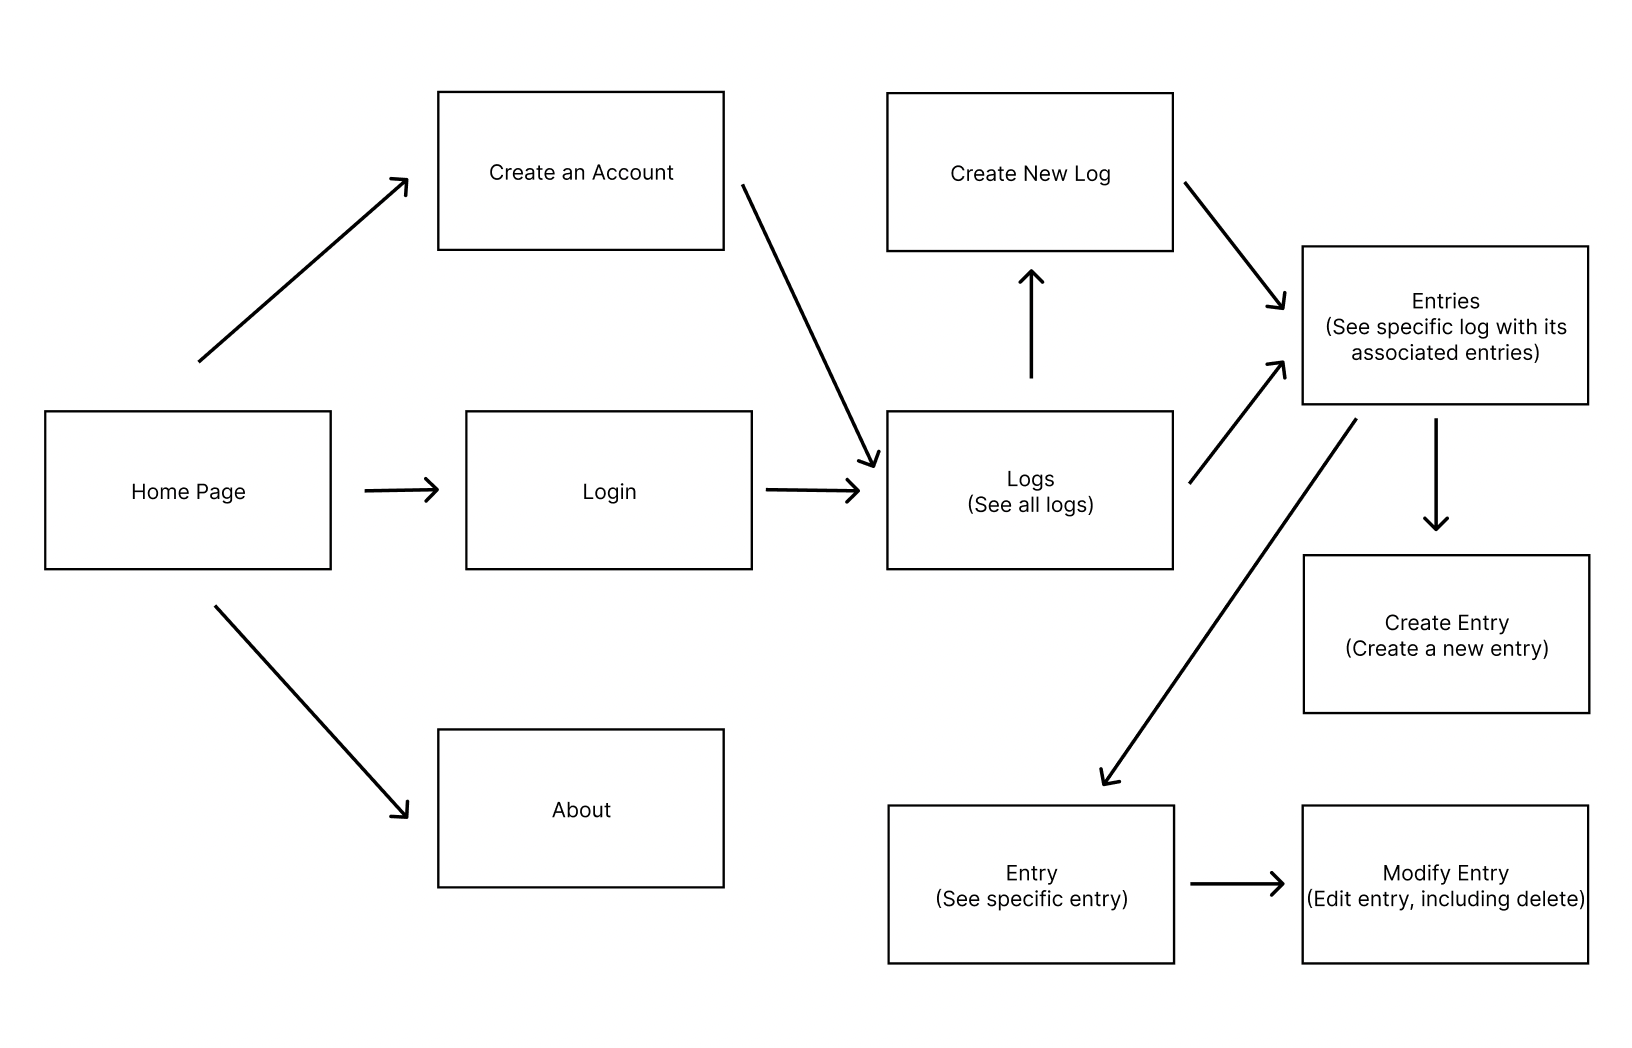
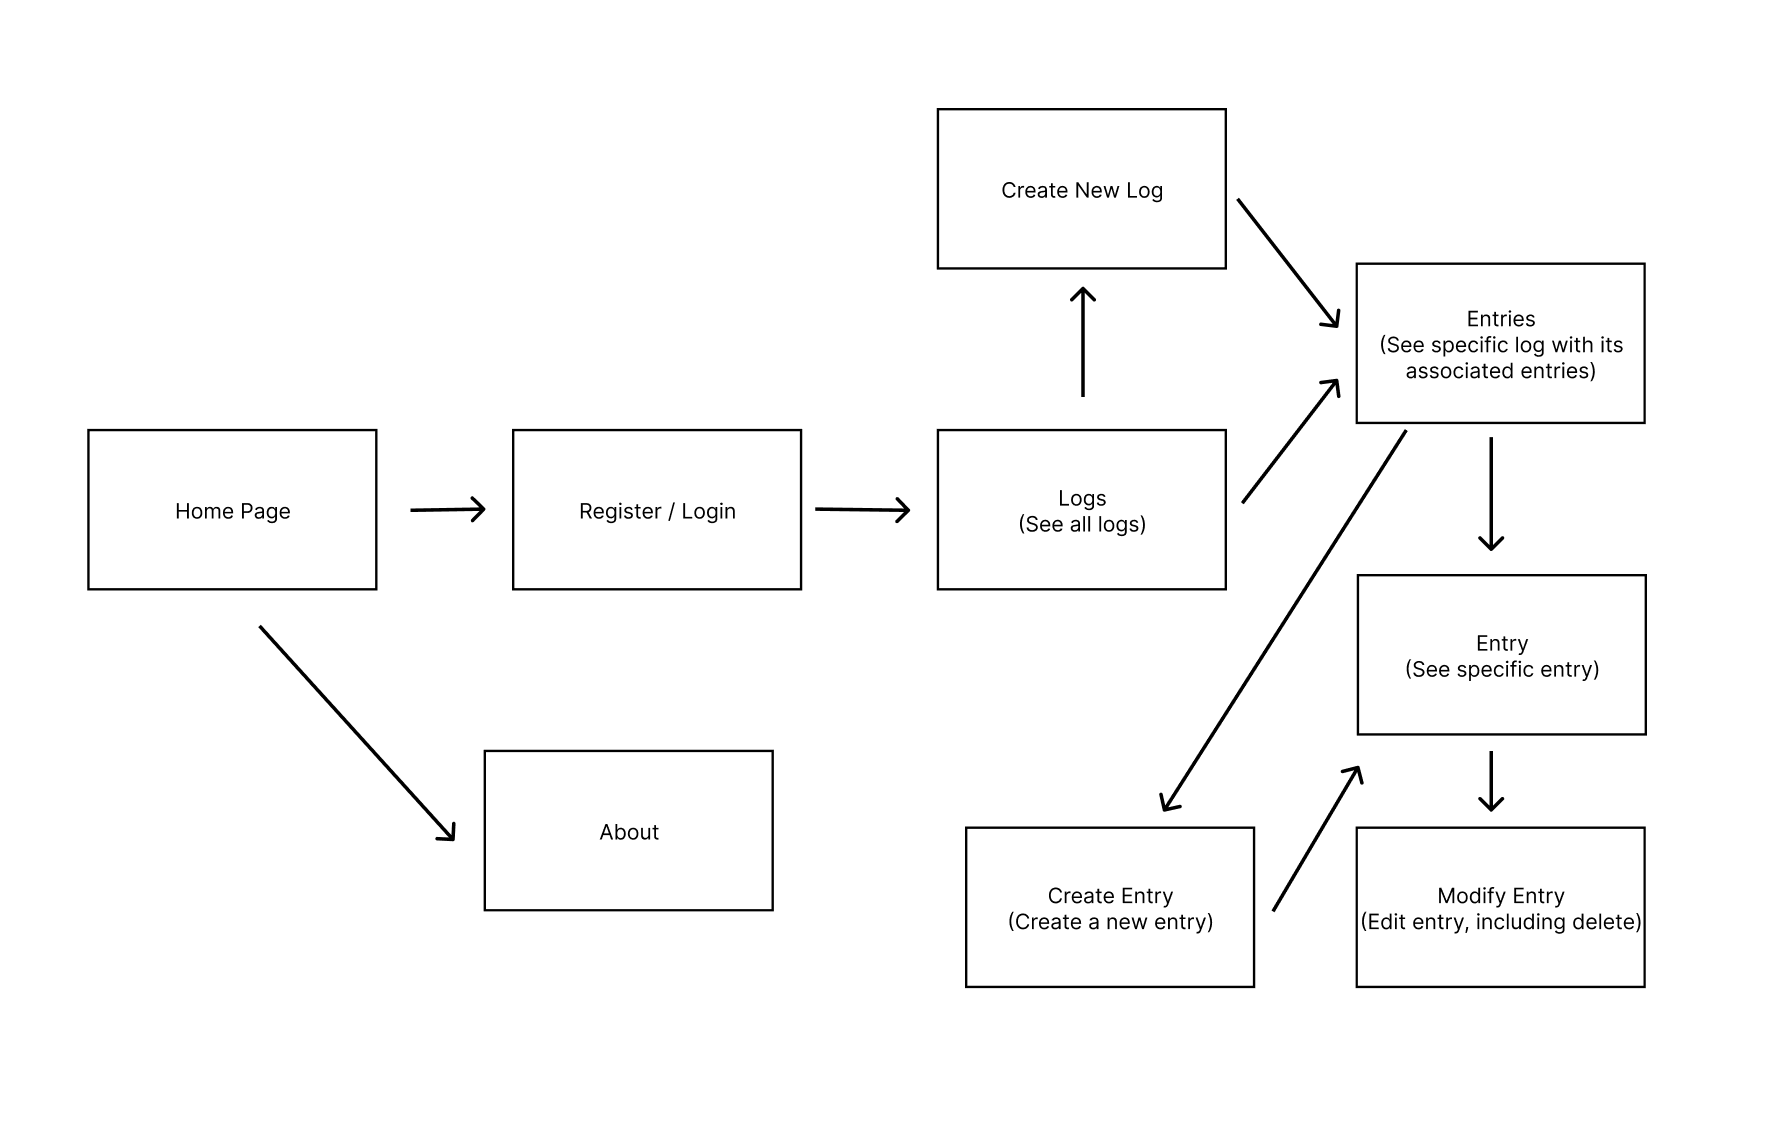
added wireframes and updated readme with embedded wireframes

diff --git a/db.js b/db.js
@@ -22,6 +22,7 @@ const Log = new mongoose.Schema({
 
 User.plugin(passportLocalMongoose);
 Log.plugin(URLSlugs('name'));
+Entry.plugin(URLSlugs('title'));
 
 mongoose.model('User', User);
 mongoose.model('Log', Log);

diff --git a/README.md b/README.md
@@ -1,5 +1,7 @@
 # MyFitness
 
+(Final web app name still to be finalized!)
+
 ## Overview
 
 Whether you're a professional athlete or just starting your fitness journey, you're bound to hear about the advantages of keeping a training log. Training logs help you keep track of your progress and allow for self reflection in the future. 
@@ -49,19 +51,32 @@ An Example Entry:
 
 ## Wireframes
 
-(__TODO__: wireframes for all of the pages on your site; they can be as simple as photos of drawings or you can use a tool like Balsamiq, Omnigraffle, etc._)
+/ - home page, welcome users
+![home page](documentation/home.png)
 
-/list/create - page for creating a new shopping list
+/about - page about the site
+![about page](documentation/about.png)
 
-![list create](documentation/list-create.png)
+/login - page for users to login or register
+![login/register page](documentation/loginregister.png)
 
-/list - page for showing all shopping lists
+/logs - page for showing all logs
+![logs page](documentation/logs.png)
 
-![list](documentation/list.png)
+/createlog - page for creating a log
+![create log page](documentation/createlog.png)
 
-/list/slug - page for showing specific shopping list
+/entries/slug - page for all entries for the given log
+![entries page](documentation/entries.png)
 
-![list](documentation/list-slug.png)
+/entry/slug - page for specific entry
+![specific entry page](documentation/entry.png)
+
+/entry/modify/slug - page for modifying an existing entry
+![modify entry page](documentation/modifyentry.png)
+
+/createentry - page for creating an entry for a given log
+![create entry page](documentation/createentry.png)
 
 
 ## Site map
